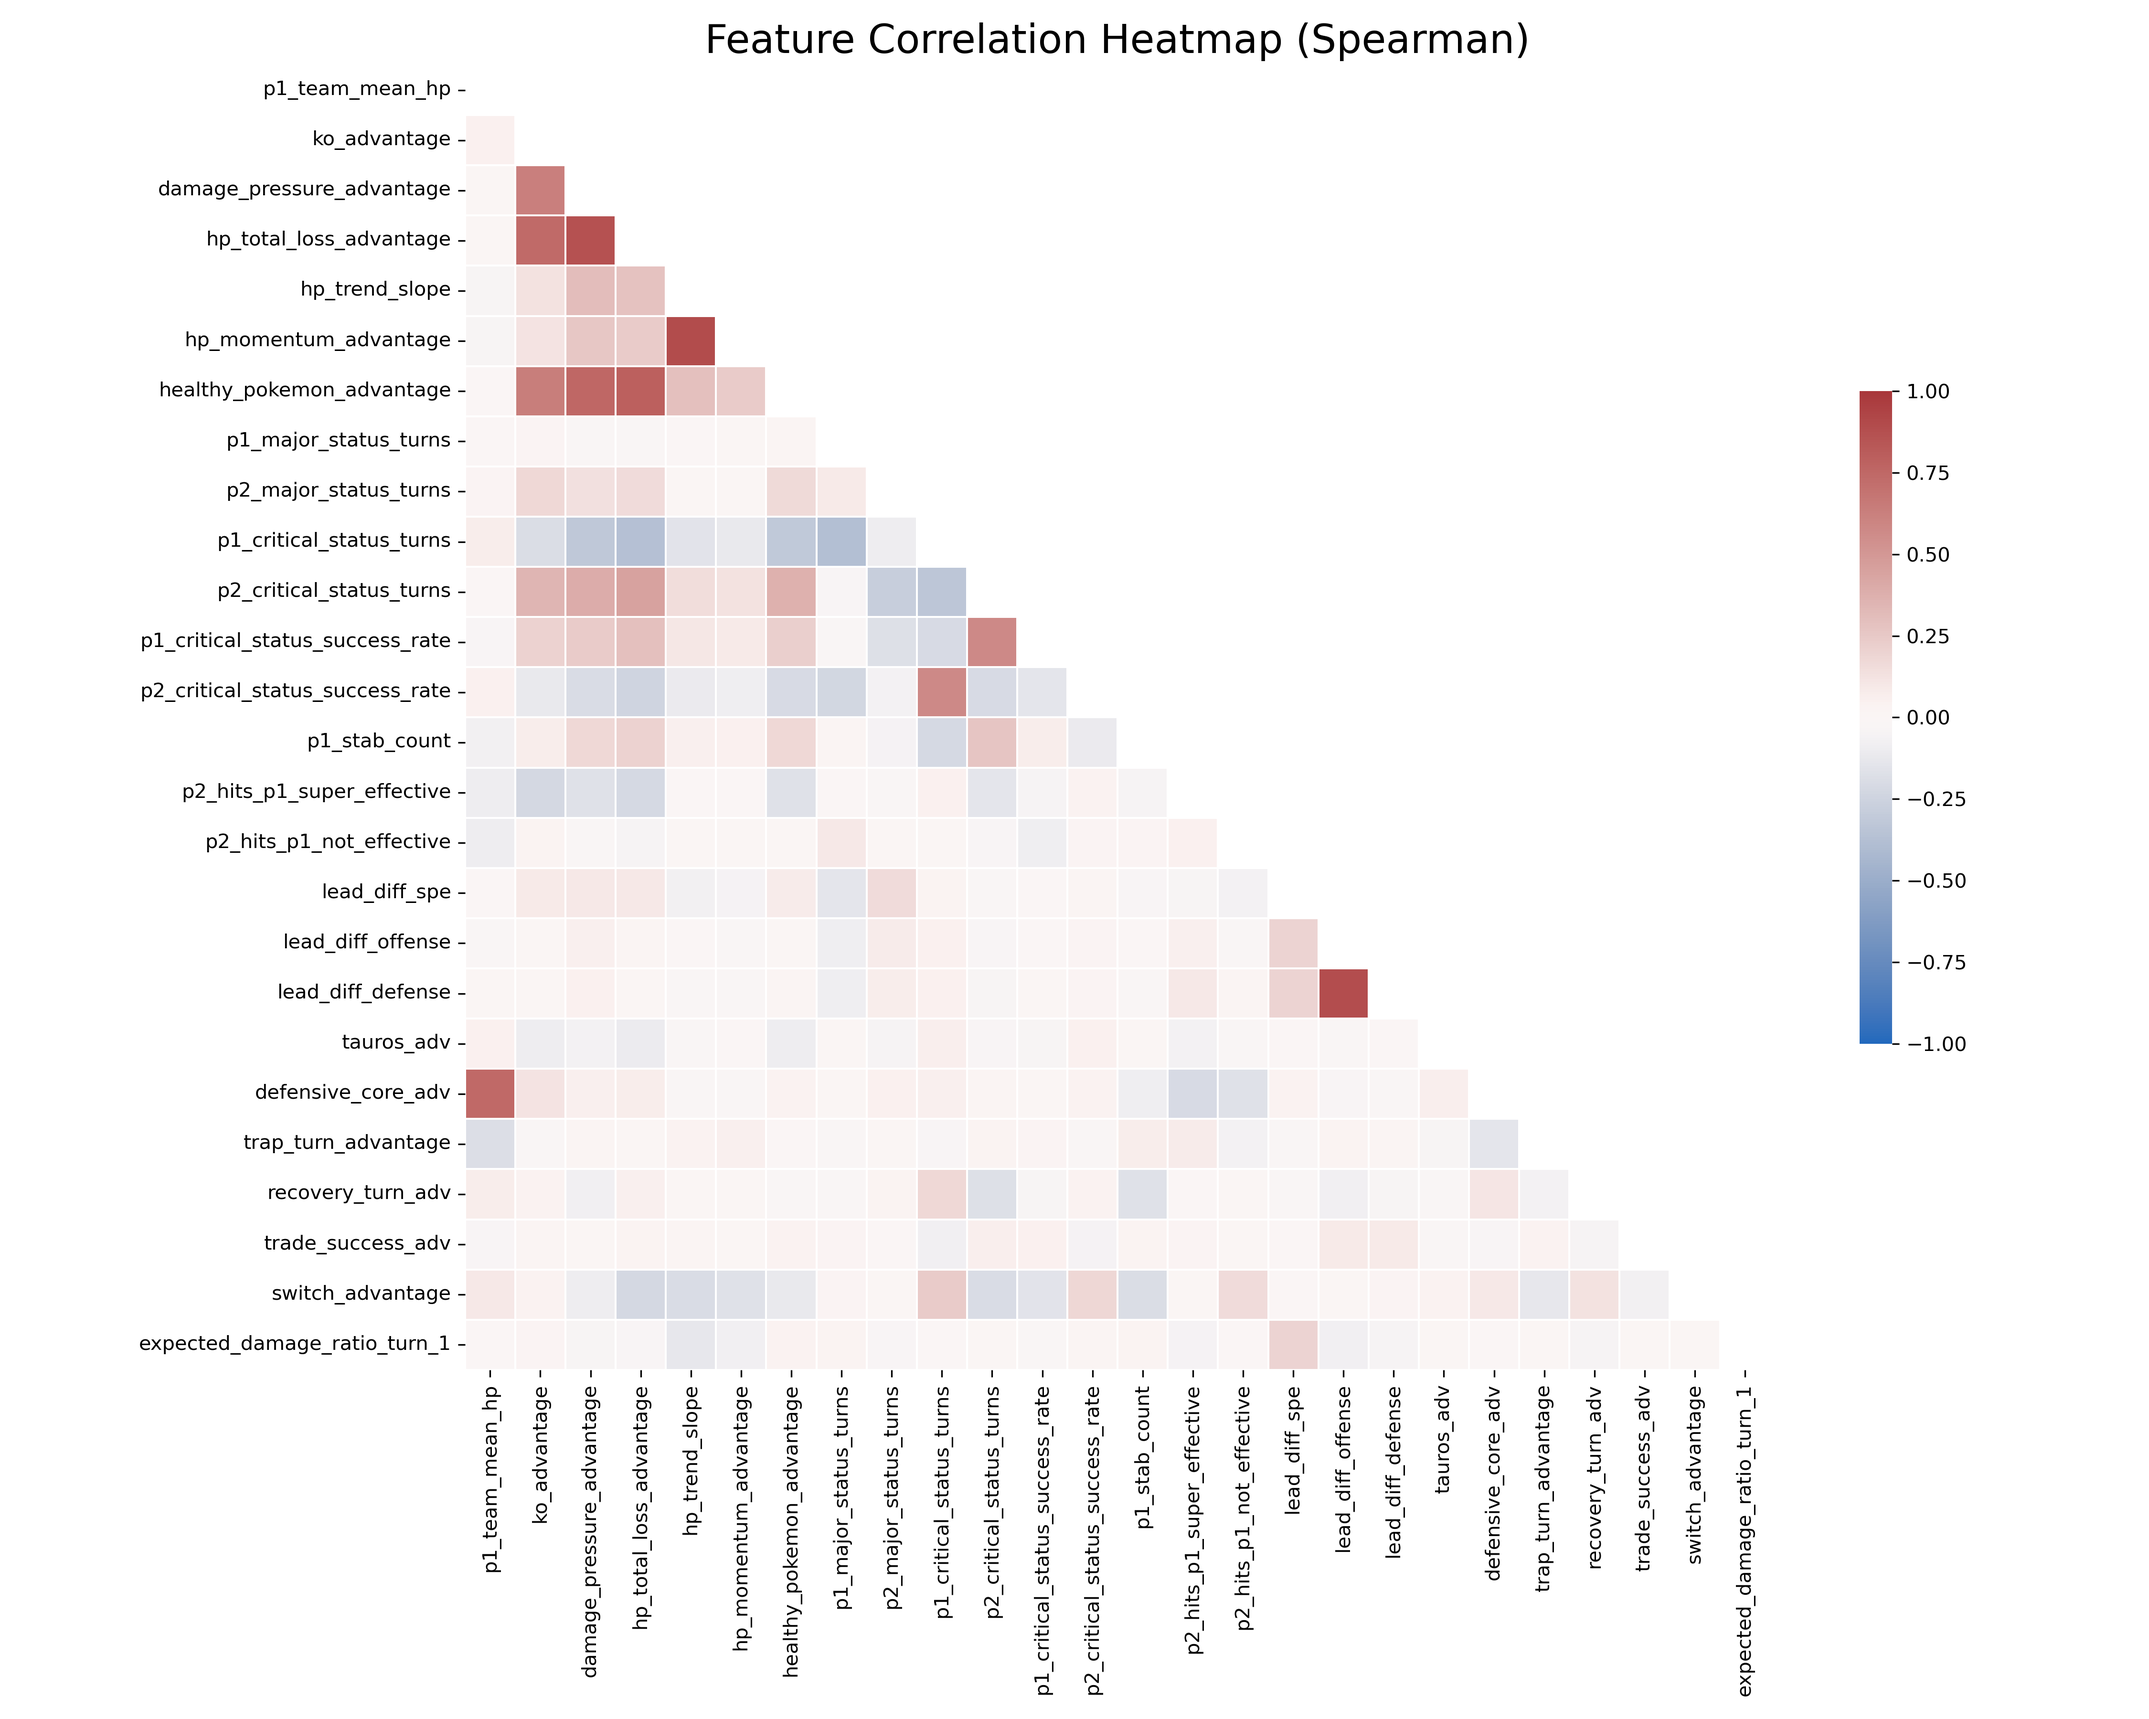
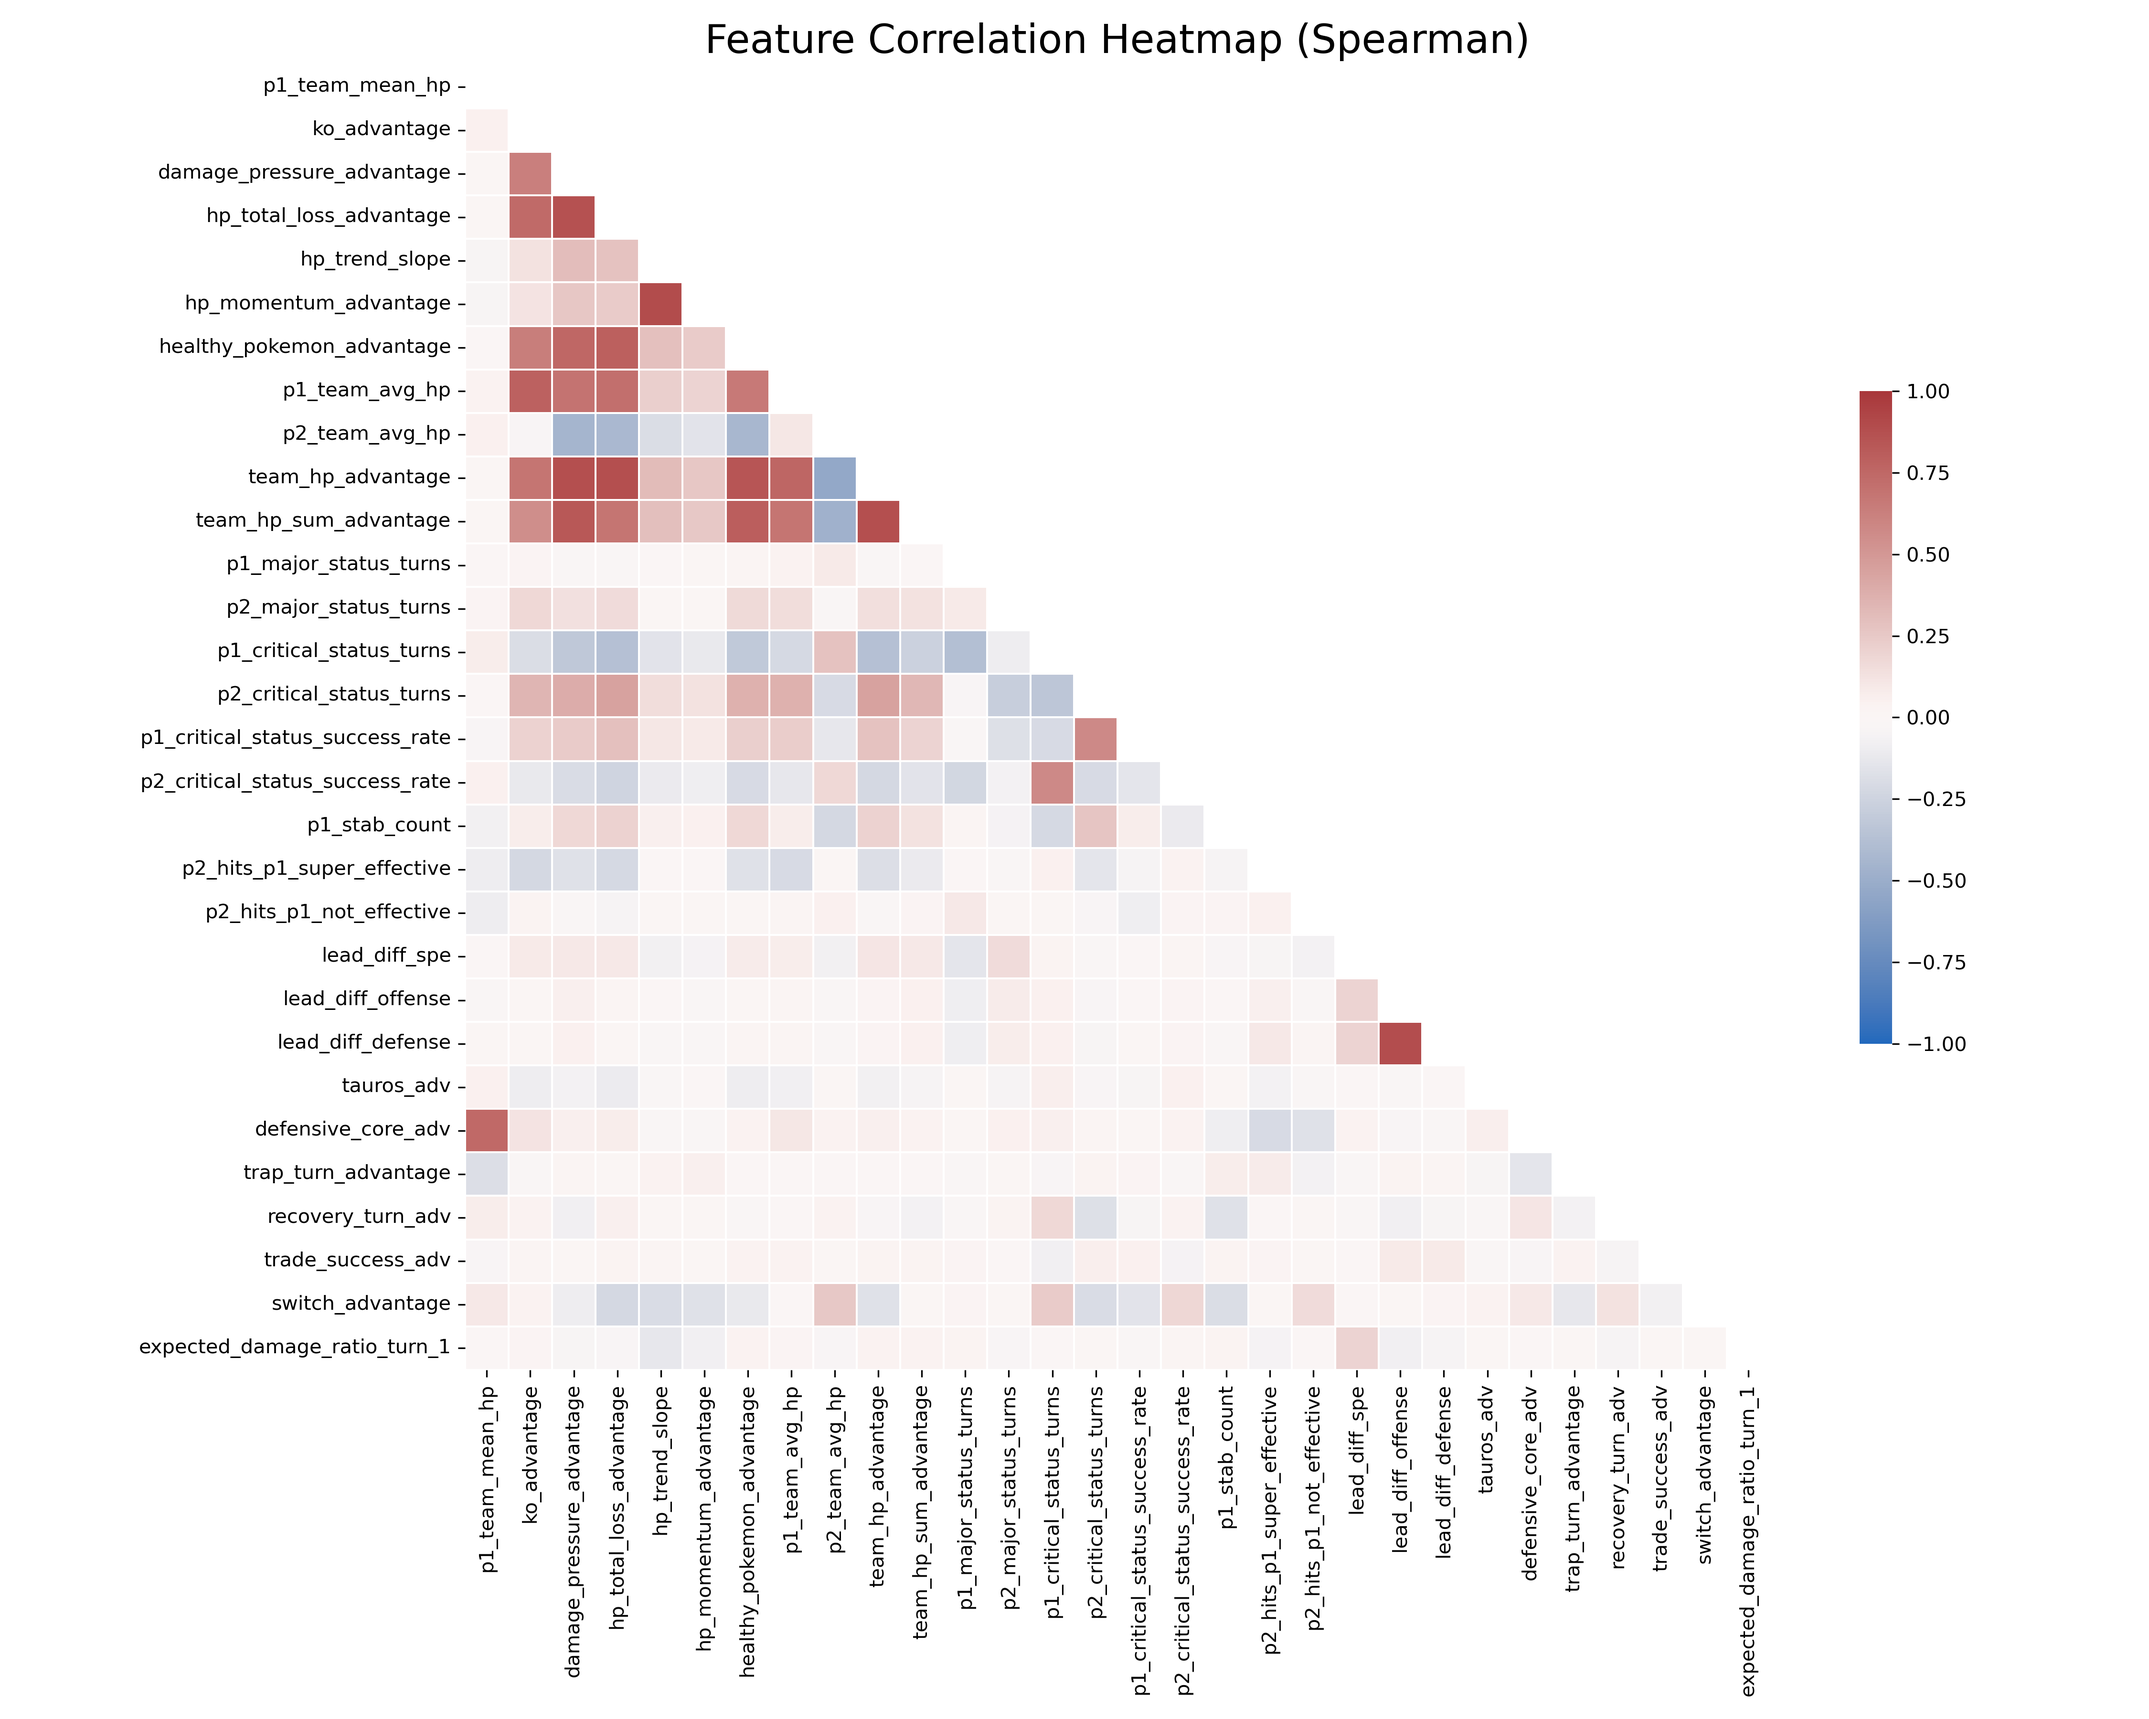
Changes v12

diff --git a/src/data/feature_engineering/features_version_12.py b/src/data/feature_engineering/features_version_12.py
@@ -926,8 +926,8 @@ def feature_engineering_version_12(
 
 
         # Added these from v13 on 
-        'p1_team_avg_hp',
-        'p2_team_avg_hp',
+        #'p1_team_avg_hp',
+        #'p2_team_avg_hp',
         'p1_team_sum_hp',
         'p2_team_sum_hp',
     ]
